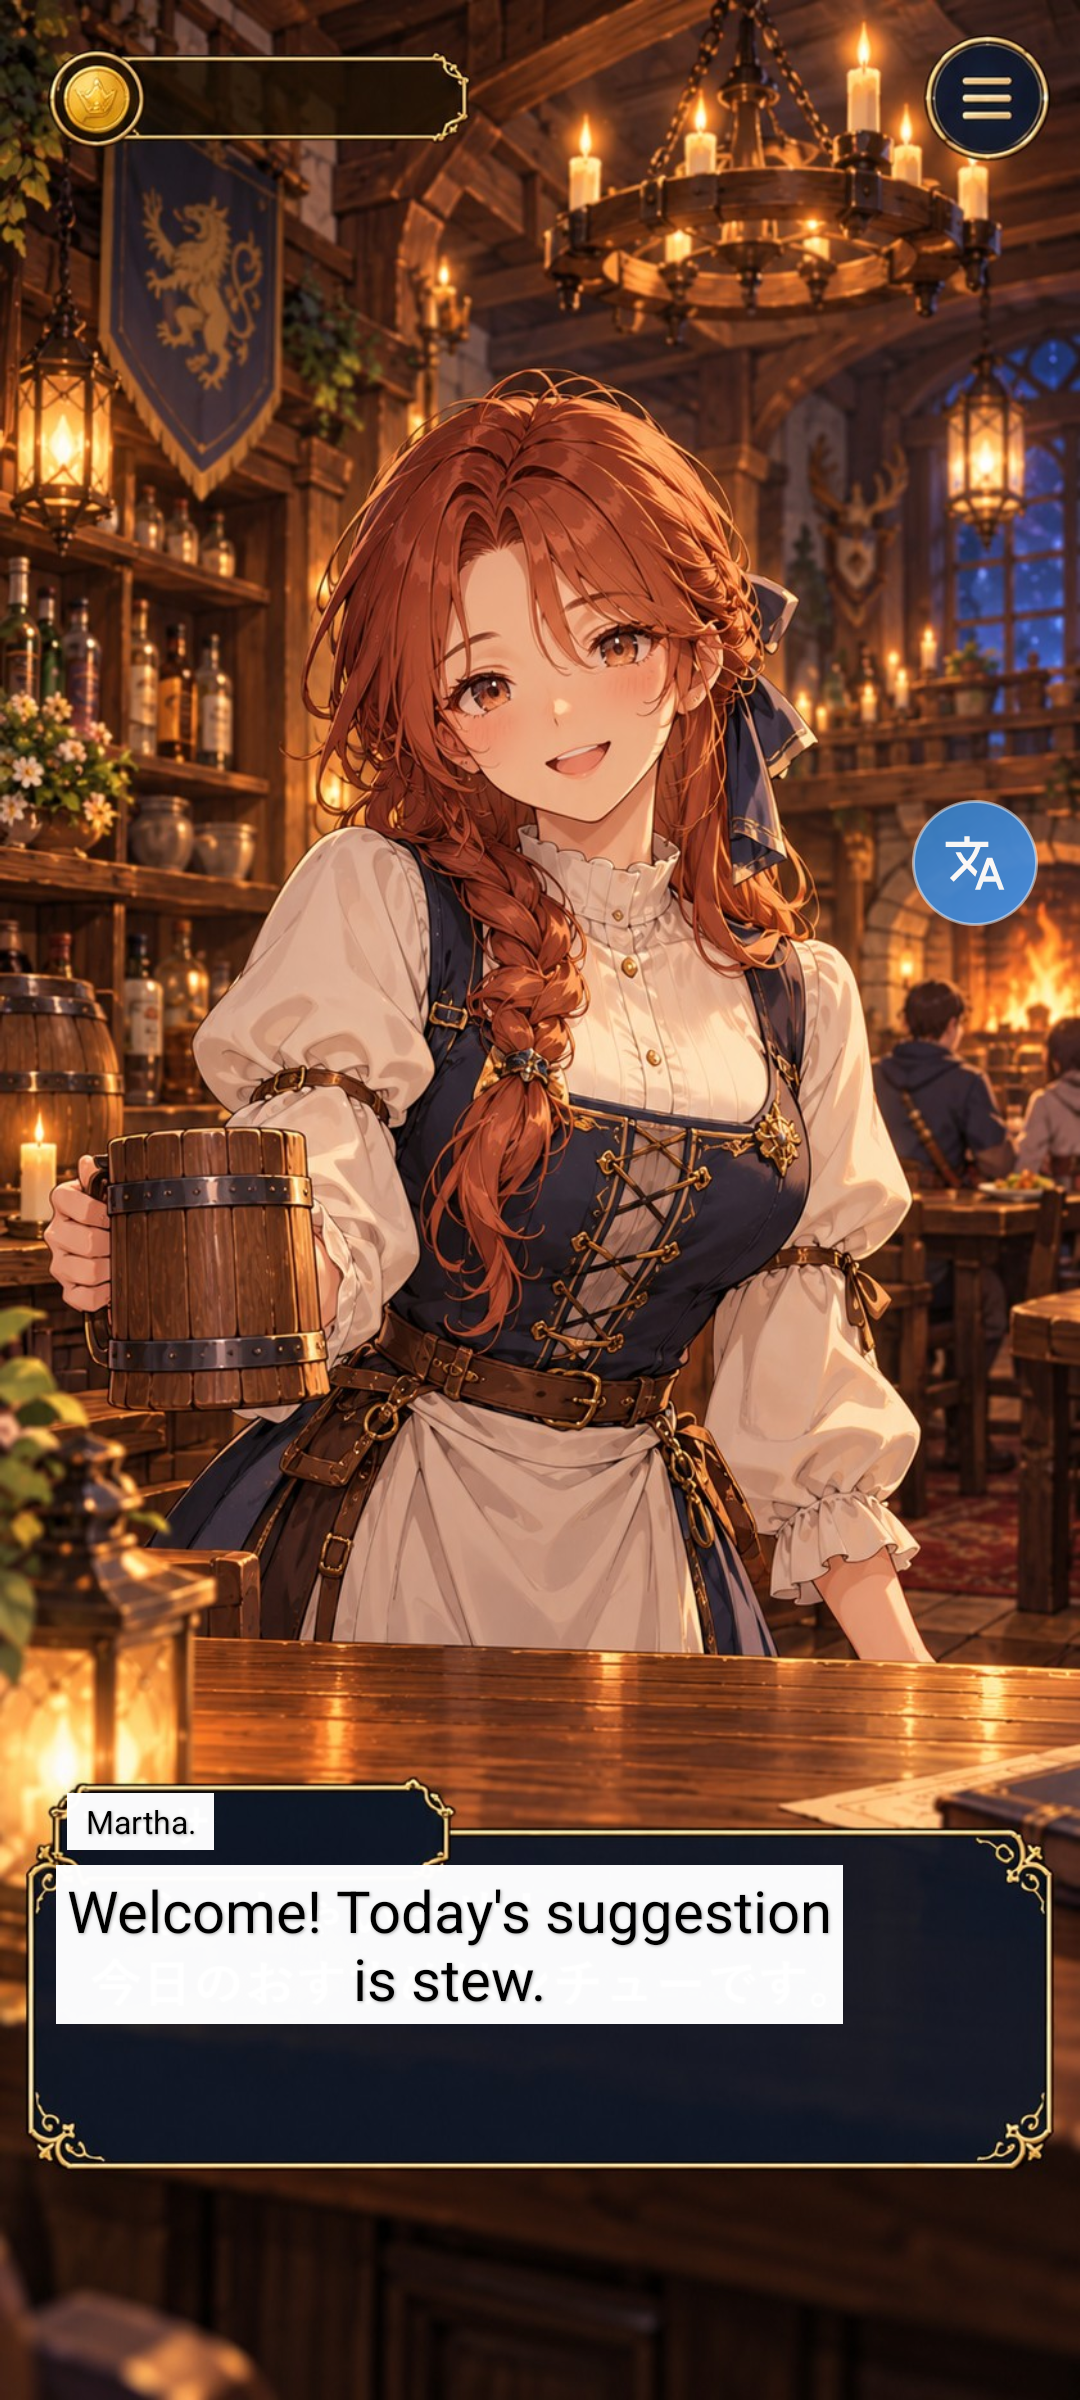
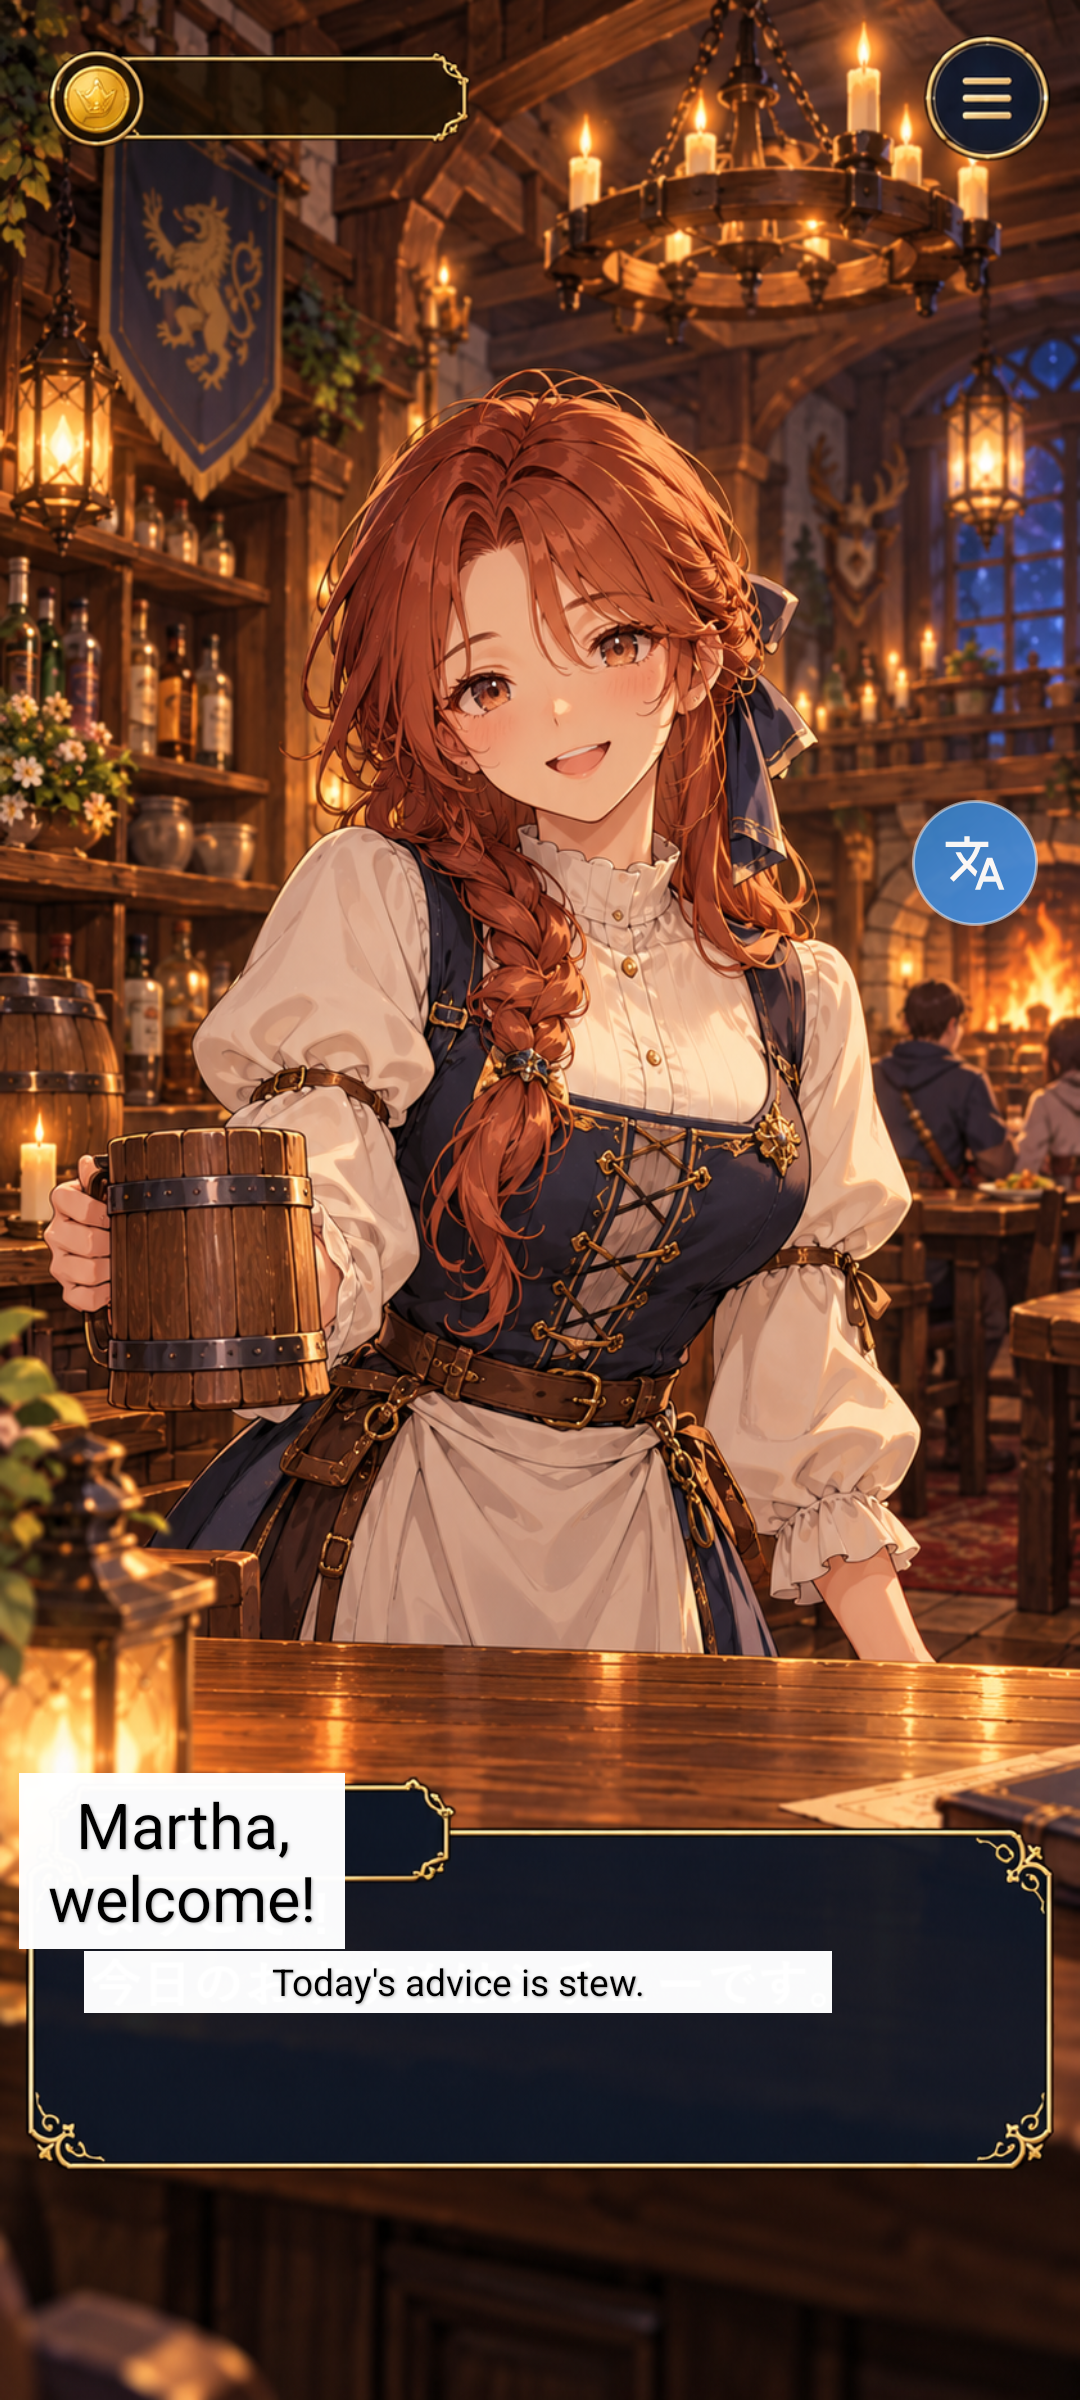
Store screenshots: all scenes, three locales, feature graphic
Adds the chat, home, settings and languages scenes, Chinese and Japanese
captures (Quick mode, app UI via per-app locale), localized captions,
and feature.py for the 1024x500 feature graphic. capture.sh hides Photos'
toolbar before translation starts, so its labels are not left as boxes.
Lines that Quick mode mistranslated were replaced after emulator trials.
README.md documents the steps and the pitfalls.

Not final yet: zh-CN game, ja-JP chat lines, ja-JP settings/languages
need recapturing (the emulator was stopped for low host memory).

Changed region(s): [[0.0, 0.7188, 0.7944, 0.8438]]

diff --git a/tools/store_assets/make_assets.py b/tools/store_assets/make_assets.py
@@ -24,14 +24,15 @@ FONTS = {'ko': 'C:/Windows/Fonts/malgunbd.ttf', 'ja': 'C:/Windows/Fonts/YuGothB.
 LINES = {
     # screen_crop: panels 1-2 with both bubbles whole, ending above bubble 3.
     'webtoon.png': dict(lang='ko', ink=(0, 0, 0), en='Korean webtoon, three panels',
-                        screen_crop=(0, 0, 713, 1520), items=[
+                        screen_crop=(0, 0, 713, 1520),
+                        alt={'webtoon_screen_cjk.png': [['고양이다!'], ['같이 가자!']]}, items=[
         dict(box=(56, 40, 356, 190), lines=['고양이가 떠 있어!'], size=34),
         dict(box=(26, 936, 278, 1060), lines=['나랑 같이 가자!'], size=31),
         dict(box=(436, 1540, 680, 1660), lines=['좋아, 가자!'], size=34),
     ]),
     'tavern.png': dict(lang='ja', ink=(255, 255, 255), en='Mobile RPG dialogue', items=[
         dict(box=(62, 1400, 336, 1455), lines=['マーサ'], size=34, align='left'),
-        dict(box=(70, 1470, 790, 1660), lines=['いらっしゃいませ！', '今日のおすすめはシチューです。'], size=40,
+        dict(box=(70, 1470, 790, 1660), lines=['ようこそ！', '今日のおすすめはシチューです。'], size=40,
              align='left', valign='top'),
     ]),
 }
@@ -50,10 +51,68 @@ def draw_lines(d, box, lines, font_path, size, ink, align='center', valign='midd
         y += lh
 
 
+# A messaging-app screen (drawn here, so no third-party UI or content), at
+# the emulator's exact 1080x2400 so Photos shows it full-screen. Messages
+# in the source language: Japanese for the English listing, English for
+# the Chinese and Japanese listings.
+CHATS = {
+    'ja': dict(name='Yuki', messages=[  # Latin name: not Japanese script, so not "translated" (ゆき became "Mizuru")
+        ('them', '明日の映画、何時にする？'),
+        ('me', '7時はどう？'),
+        ('them', 'いいね！駅で会おう。'),
+        ('me', 'チケットは買っておくね。'),
+        ('them', 'ありがとう！楽しみ！'),
+    ]),
+    'en': dict(name='Emma', messages=[
+        ('them', 'What time is the movie tomorrow?'),
+        ('me', 'How about seven?'),
+        ('them', 'Sounds good! See you there.'),
+        ('me', 'I will buy the tickets.'),
+        ('them', 'Thank you! See you tomorrow.'),
+    ]),
+}
+CHAT_FONTS = {'ja': 'C:/Windows/Fonts/YuGothM.ttc', 'en': 'C:/Windows/Fonts/segoeui.ttf'}
+
+
+def draw_chat(lang):
+    spec = CHATS[lang]
+    W, H = 1080, 2400
+    im = Image.new('RGB', (W, H), (236, 239, 244))
+    d = ImageDraw.Draw(im)
+    f_msg = ImageFont.truetype(CHAT_FONTS[lang], 46)
+    f_name = ImageFont.truetype('C:/Windows/Fonts/segoeuib.ttf' if lang == 'en' else FONTS['ja'], 50)
+    # Header.
+    d.rectangle([0, 0, W, 260], fill=(48, 92, 222))
+    # Avatar without an initial: a lone letter got OCR'd and "translated".
+    d.ellipse([60, 120, 160, 220], fill=(255, 196, 120))
+    d.ellipse([92, 140, 128, 176], fill=(255, 255, 255))
+    d.pieslice([74, 170, 146, 240], 180, 360, fill=(255, 255, 255))
+    d.text((190, 140), spec['name'], font=f_name, fill=(255, 255, 255))
+    # Messages. (No date chip: "Today" came back as "今天，".)
+    y = 450
+    for who, text in spec['messages']:
+        tw = d.textlength(text, font=f_msg)
+        bw, bh = tw + 80, 120
+        x = 60 if who == 'them' else W - 60 - bw
+        fill, ink = ((255, 255, 255), (20, 24, 32)) if who == 'them' else ((48, 92, 222), (255, 255, 255))
+        d.rounded_rectangle([x, y, x + bw, y + bh], radius=44, fill=fill)
+        d.text((x + 40, y + bh / 2), text, font=f_msg, fill=ink, anchor='lm')
+        y += bh + 70
+    # Input bar.
+    d.rectangle([0, H - 220, W, H], fill=(255, 255, 255))
+    d.rounded_rectangle([50, H - 180, W - 190, H - 70], radius=55, fill=(236, 239, 244))
+    d.ellipse([W - 160, H - 180, W - 50, H - 70], fill=(48, 92, 222))
+    d.polygon([(W - 125, H - 150), (W - 125, H - 100), (W - 80, H - 125)], fill=(255, 255, 255))
+    return im
+
+
 def main():
     out = sys.argv[1] if len(sys.argv) > 1 else os.path.join(HERE, 'assets')
     os.makedirs(out, exist_ok=True)
     notes = []
+    for lang, spec in CHATS.items():
+        draw_chat(lang).save(os.path.join(out, f'chat_{lang}.png'))
+        notes.append(f"chat_{lang}.png ({lang}): " + ' / '.join(t for _, t in spec['messages']))
     for name, spec in LINES.items():
         im = Image.open(os.path.join(ORIG, name)).convert('RGB')
         d = ImageDraw.Draw(im)
@@ -61,6 +120,14 @@ def main():
             draw_lines(d, item['box'], item['lines'], FONTS[spec['lang']], item['size'], spec['ink'],
                        item.get('align', 'center'), item.get('valign', 'middle'))
         im.save(os.path.join(out, name))
+        for alt_name, alt_lines in spec.get('alt', {}).items():
+            # Same artwork with other lines (Quick mode into Chinese/Japanese
+            # handled the default ones badly: "猫浮动！").
+            alt = Image.open(os.path.join(ORIG, name)).convert('RGB')
+            ad = ImageDraw.Draw(alt)
+            for item, lines in zip(spec['items'], alt_lines):
+                draw_lines(ad, item['box'], lines, FONTS[spec['lang']], item['size'], spec['ink'])
+            alt.crop(spec.get('screen_crop', (0, 0) + alt.size)).save(os.path.join(out, alt_name))
         if 'screen_crop' in spec:
             # One phone screen of the strip, as a webtoon reader shows it
             # (full width); the whole strip shown in Photos is too small.

diff --git a/tools/store_assets/feature.py b/tools/store_assets/feature.py
@@ -1,0 +1,72 @@
+"""Google Play feature graphic (1024x500) from a real capture.
+
+Usage: python tools/store_assets/feature.py [--locale en-US]
+Output: build/play_store_assets/feature/<locale>.png
+"""
+import argparse
+import os
+
+from PIL import Image, ImageDraw, ImageFilter
+
+import compose as c
+
+W, H = 1024, 500
+TEXT = {
+    'en-US': ('Screen Translate', 'Manga, webtoons & games,\ntranslated right on screen'),
+    'zh-CN': ('屏幕翻译', '漫画、条漫、游戏\n在屏幕上直接翻译'),
+    'ja-JP': ('画面翻訳', 'マンガ・Webtoon・ゲームを\n画面上でそのまま翻訳'),
+}
+
+
+def main():
+    ap = argparse.ArgumentParser()
+    ap.add_argument('--locale', default='en-US', choices=sorted(TEXT))
+    args = ap.parse_args()
+    bold, semi = c.FONTS[args.locale]
+    title, sub = TEXT[args.locale]
+
+    im = Image.new('RGB', (W, H))
+    d = ImageDraw.Draw(im)
+    for y in range(H):
+        k = y / H
+        d.line([(0, y), (W, y)], fill=(int(10 + 18 * k), int(17 + 20 * k), int(40 + 25 * k)))
+    glow = Image.new('RGBA', (W, H), (0, 0, 0, 0))
+    ImageDraw.Draw(glow).ellipse([560, -260, 1200, 420], fill=(59, 130, 246, 70))
+    im = Image.alpha_composite(im.convert('RGBA'), glow.filter(ImageFilter.GaussianBlur(110))).convert('RGB')
+    d = ImageDraw.Draw(im)
+
+    # Icon, title, subline on the left.
+    icon = Image.open(os.path.join(c.REPO, 'android', 'app', 'src', 'main', 'res', 'playstore-icon.png')).convert('RGBA')
+    icon = icon.resize((110, 110), Image.LANCZOS)
+    im.paste(icon, (60, 90), c.rounded(icon, 24))
+    d.text((60, 225), title, font=c.font(bold, 62), fill=c.WHITE)
+    y = 315
+    for line in sub.split('\n'):
+        d.text((62, y), line, font=c.font(semi, 30), fill=c.SUB)
+        y += 44
+
+    # Right: the top of the translated manga page in a phone, tilted slightly.
+    # The listing's own capture: the Japanese listing has no manga shot
+    # (Japanese artwork translated into Japanese), so it uses the webtoon.
+    scene = 'webtoon' if args.locale == 'ja-JP' else 'manga'
+    raw = os.path.join(c.RAW, args.locale, scene + '.png')
+    shot = Image.open(raw).convert('RGB').crop((0, 0, 1080, 1500)).resize((324, 450), Image.LANCZOS)
+    phone = Image.new('RGBA', (324 + 28, 450 + 28), (0, 0, 0, 0))
+    ImageDraw.Draw(phone).rounded_rectangle([0, 0, phone.width - 1, phone.height + 60], radius=40,
+                                            fill=(22, 24, 30), outline=(70, 76, 90), width=3)
+    phone.paste(shot, (14, 14), c.rounded(shot, 28))
+    phone = phone.rotate(-6, resample=Image.BICUBIC, expand=True)
+    shadow = Image.new('RGBA', (W, H), (0, 0, 0, 0))
+    sx, sy = 640, 40
+    shadow.paste((0, 0, 0, 150), (sx + 12, sy + 18), phone.getchannel('A'))
+    im = Image.alpha_composite(im.convert('RGBA'), shadow.filter(ImageFilter.GaussianBlur(18)))
+    im.alpha_composite(phone, (sx, sy))
+
+    out = os.path.join(c.REPO, 'build', 'play_store_assets', 'feature', args.locale + '.png')
+    os.makedirs(os.path.dirname(out), exist_ok=True)
+    im.convert('RGB').save(out)
+    print(out)
+
+
+if __name__ == '__main__':
+    main()

diff --git a/tools/store_assets/compose.py b/tools/store_assets/compose.py
@@ -47,6 +47,22 @@ SHOTS = {
         text={'en-US': ('Read webtoons as you scroll', 'Korean, Japanese, Chinese and more'),
               'zh-CN': ('条漫边滑边翻译', '韩语、日语等多种语言'),
               'ja-JP': ('Webtoonもスクロールしながら翻訳', '韓国語・英語など多言語対応')}),
+    'chat': dict(
+        text={'en-US': ('Chats and posts, too', 'Works over any app on your screen'),
+              'zh-CN': ('聊天、帖子也能翻', '任何应用里的文字都能翻译'),
+              'ja-JP': ('チャットもSNSも翻訳', '画面上のどのアプリでも使える')}),
+    'home': dict(
+        text={'en-US': ('One tap to start', 'A floating button stays on top of any app'),
+              'zh-CN': ('一键开启', '悬浮按钮常驻在任何应用上方'),
+              'ja-JP': ('ワンタップで開始', 'フローティングボタンがどのアプリにも'),}),
+    'settings': dict(
+        text={'en-US': ('Quick or AI translation', 'AI packs run on your phone, offline'),
+              'zh-CN': ('快速翻译或 AI 翻译', 'AI 语言包在手机本地运行，可离线使用'),
+              'ja-JP': ('クイック翻訳とAI翻訳', 'AIパックは端末内で動作、オフラインでも')}),
+    'languages': dict(
+        text={'en-US': ('50+ languages', 'Pick any pair'),
+              'zh-CN': ('支持 50 多种语言', '任意语言组合'),
+              'ja-JP': ('50以上の言語に対応', '好きな組み合わせで翻訳')}),
 }
 
 

diff --git a/tools/store_assets/README.md b/tools/store_assets/README.md
@@ -1,0 +1,34 @@
+# Google Play screenshots
+
+Real emulator captures of the app translating, laid out as store images.
+
+| Step | Command | Output |
+|---|---|---|
+| 1. Letter the artwork | `python tools/store_assets/make_assets.py` | `assets/` |
+| 2. Try lines (optional) | `[MODE=onDevice] [TARGET=zh] bash tools/store_assets/check_lines.sh <src> <runs> <img>` | logcat OCR → translation |
+| 3. Capture | `bash tools/store_assets/capture.sh <en-US\|zh-CN\|ja-JP> [scene ...]` | `raw/<locale>/<scene>.png` |
+| 4. Phone screenshots | `python tools/store_assets/compose.py --locale <locale>` | `build/play_store_assets/screens/<locale>/` (1080x1920) |
+| 5. Feature graphic | `cd tools/store_assets && python feature.py --locale <locale>` | `build/play_store_assets/feature/<locale>.png` (1024x500) |
+
+Scenes: manga, game, webtoon, chat (artwork shown in Google Photos with live
+translation running) and home, settings, languages (the app's own screens,
+UI in the listing's language via per-app locale). The Japanese listing has no
+manga/game scene: that artwork is Japanese.
+
+Setup: the phone AVD (4 GB RAM, see tools/emulator/README.md), the debug app,
+and the ja-en and ko-en AI packs (`bash tools/emulator/push_ai_pack.sh opus-mt-ja-en`,
+`... opus-mt-ko-en fp16`). The English listing uses AI mode; Chinese and
+Japanese use Quick mode (AI packs only translate into English).
+
+What goes wrong, and how the scripts avoid it:
+- OCR/translation is not deterministic. Every line was tried several times;
+  check every capture. One line per bubble (two-line bubbles get split).
+  Quick mode into Chinese/Japanese needed simpler lines than AI mode into
+  English, so the webtoon has a second lettering (`webtoon_screen_cjk.png`).
+- Photos' toolbar labels get translated if they are on screen when
+  translation starts, and those boxes can stay. capture.sh hides the toolbar
+  first, then starts translation, then brings the same Photos screen back.
+- Names and lone letters are "translated" (ゆき → "Mizuru"): the chat uses a
+  Latin name and an avatar without an initial.
+- The first Quick-mode translation into a new language downloads its model
+  (can take minutes); rerun a scene that timed out.
